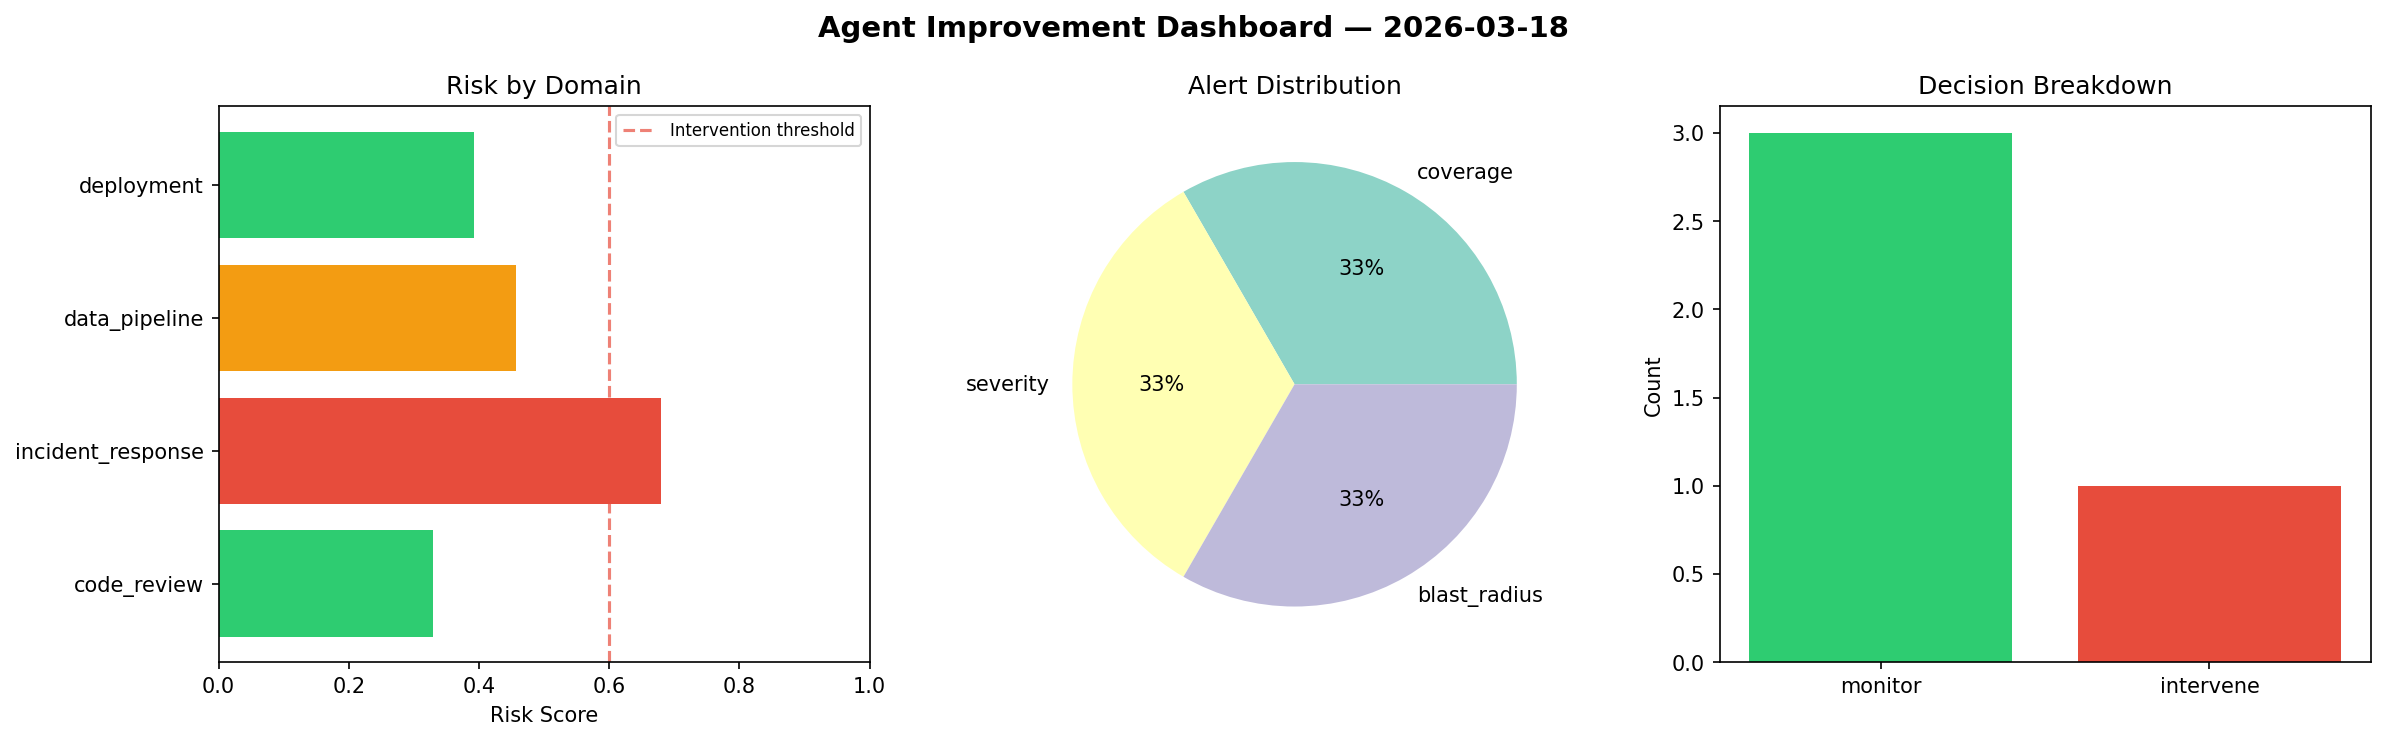
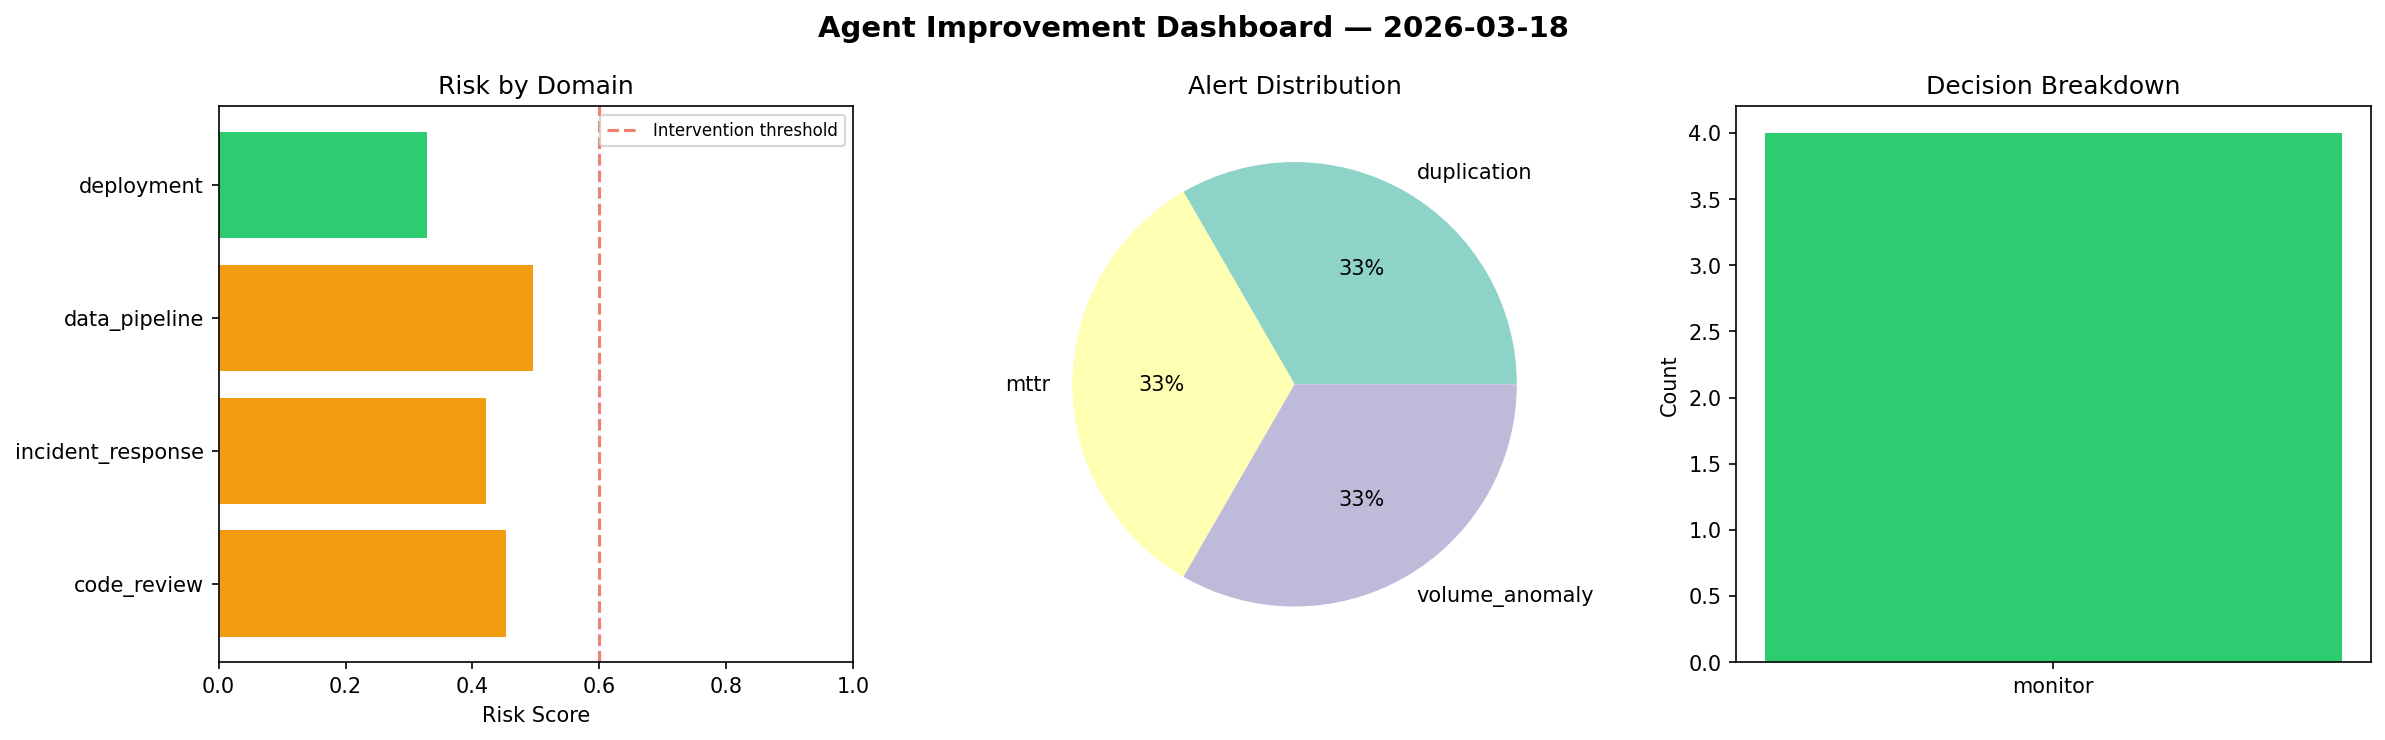
agent-improvement: daily cycle 2026-03-18T09:07

diff --git a/logs/2026-03-18.md b/logs/2026-03-18.md
@@ -1,6 +1,6 @@
 # Agent Improvement Report — 2026-03-18
 
-**Cycle ID:** `47c0222e` | **Avg Risk:** 0.4643 | **Interventions:** 1/4
+**Cycle ID:** `8402cc4d` | **Avg Risk:** 0.4241 | **Interventions:** 0/4
 
 ![Dashboard](2026-03-18_dashboard.png)
 
@@ -10,18 +10,18 @@
 
 | Domain | Risk Score | Decision | Alerts |
 |--------|-----------|----------|--------|
-| code_review | 0.3288 | monitor | coverage |
-| incident_response | 0.679 | intervene | severity, blast_radius |
-| data_pipeline | 0.4574 | monitor | none |
-| deployment | 0.3921 | monitor | none |
+| code_review | 0.4524 | monitor | duplication |
+| incident_response | 0.4209 | monitor | mttr |
+| data_pipeline | 0.4949 | monitor | volume_anomaly |
+| deployment | 0.3284 | monitor | none |
 
 ## Delta vs Yesterday
 
 | Domain | Today | Yesterday | Change |
 |--------|-------|-----------|--------|
-| code_review | 0.3288 | 0.5244 | 📉 -37.3% |
-| incident_response | 0.679 | 0.4733 | 📈 43.5% |
-| data_pipeline | 0.4574 | 0.4346 | 📈 5.2% |
-| deployment | 0.3921 | 0.2967 | 📈 32.2% |
+| code_review | 0.4524 | 0.5244 | 📉 -13.7% |
+| incident_response | 0.4209 | 0.4733 | 📉 -11.1% |
+| data_pipeline | 0.4949 | 0.4346 | 📈 13.9% |
+| deployment | 0.3284 | 0.2967 | 📈 10.7% |
 
-**Refinement:** `{'adjustment': 'tighten_thresholds', 'trend': 'degrading', 'window': 4}`
+**Refinement:** `{'adjustment': 'maintain', 'trend': 'improving', 'window': 4}`
